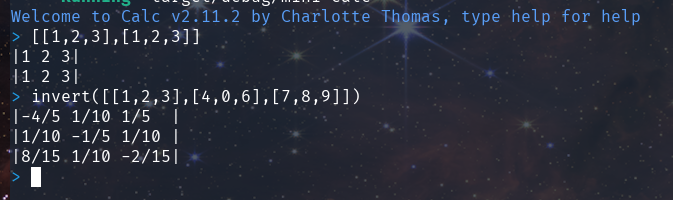
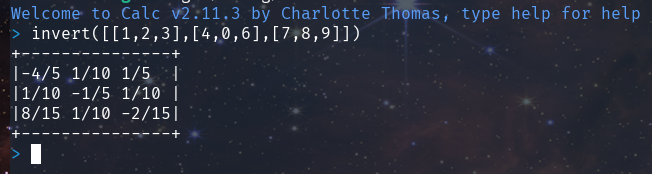
maj

diff --git a/public/index.html b/public/index.html
@@ -71,11 +71,11 @@
 
 
 
-<div class="artifacts" data-tag="2.11.2">
+<div class="artifacts" data-tag="2.11.3">
     <div class="artifact-header target">
-        <h4>Install 2.11.2</h4>
+        <h4>Install 2.11.3</h4>
         
-            <div><small class="published-date">Published on Nov 24 2023 at 21:16 UTC</small></div>
+            <div><small class="published-date">Published on Nov 26 2023 at 09:31 UTC</small></div>
         
 
         <ul class="arches">
@@ -113,9 +113,9 @@
                                     
                                     <div class="install-code-wrapper">
     <pre style="background-color:#263238;">
-<span style="color:#82aaff;">curl</span><span style="color:#89ddff;"> --</span><span style="color:#f78c6c;">proto </span><span style="color:#89ddff;">&#39;</span><span style="color:#c3e88d;">=https</span><span style="color:#89ddff;">&#39; --</span><span style="color:#f78c6c;">tlsv1</span><span style="color:#82aaff;">.2</span><span style="color:#89ddff;"> -</span><span style="color:#f78c6c;">LsSf</span><span style="color:#82aaff;"> https://github.com/coco33920/calc/releases/download/2.11.2/mini-calc-installer.sh </span><span style="color:#89ddff;">| </span><span style="color:#82aaff;">sh</span></pre>
+<span style="color:#82aaff;">curl</span><span style="color:#89ddff;"> --</span><span style="color:#f78c6c;">proto </span><span style="color:#89ddff;">&#39;</span><span style="color:#c3e88d;">=https</span><span style="color:#89ddff;">&#39; --</span><span style="color:#f78c6c;">tlsv1</span><span style="color:#82aaff;">.2</span><span style="color:#89ddff;"> -</span><span style="color:#f78c6c;">LsSf</span><span style="color:#82aaff;"> https://github.com/coco33920/calc/releases/download/2.11.3/mini-calc-installer.sh </span><span style="color:#89ddff;">| </span><span style="color:#82aaff;">sh</span></pre>
 
-    <button class="button copy-clipboard-button primary" data-copy="curl --proto '=https' --tlsv1.2 -LsSf https://github.com/coco33920/calc/releases/download/2.11.2/mini-calc-installer.sh | sh">
+    <button class="button copy-clipboard-button primary" data-copy="curl --proto '=https' --tlsv1.2 -LsSf https://github.com/coco33920/calc/releases/download/2.11.3/mini-calc-installer.sh | sh">
         <svg stroke='currentColor' fill='currentColor' stroke-width='0' viewBox='0 0 20 20' height='1em' width='1em' xmlns='http://www.w3.org/2000/svg'><path d='M8 2a1 1 0 000 2h2a1 1 0 100-2H8z'></path><path d='M3 5a2 2 0 012-2 3 3 0 003 3h2a3 3 0 003-3 2 2 0 012 2v6h-4.586l1.293-1.293a1 1 0 00-1.414-1.414l-3 3a1 1 0 000 1.414l3 3a1 1 0 001.414-1.414L10.414 13H15v3a2 2 0 01-2 2H5a2 2 0 01-2-2V5zM15 11h2a1 1 0 110 2h-2v-2z'></path></svg>
     </button>
     
@@ -158,7 +158,7 @@
                                 
                                     
                                      <div class="download-wrapper">
-                                         <a href="https://github.com/coco33920/calc/releases/download/2.11.2/mini-calc-aarch64-apple-darwin.tar.xz">
+                                         <a href="https://github.com/coco33920/calc/releases/download/2.11.3/mini-calc-aarch64-apple-darwin.tar.xz">
                                              <button class="button primary">
                                                  <span>Download</span>
                                                  <span class="button-subtitle">mini-calc-aarch64-apple-darwin.tar.xz</span>
@@ -204,9 +204,9 @@
                                     
                                     <div class="install-code-wrapper">
     <pre style="background-color:#263238;">
-<span style="color:#82aaff;">curl</span><span style="color:#89ddff;"> --</span><span style="color:#f78c6c;">proto </span><span style="color:#89ddff;">&#39;</span><span style="color:#c3e88d;">=https</span><span style="color:#89ddff;">&#39; --</span><span style="color:#f78c6c;">tlsv1</span><span style="color:#82aaff;">.2</span><span style="color:#89ddff;"> -</span><span style="color:#f78c6c;">LsSf</span><span style="color:#82aaff;"> https://github.com/coco33920/calc/releases/download/2.11.2/mini-calc-installer.sh </span><span style="color:#89ddff;">| </span><span style="color:#82aaff;">sh</span></pre>
+<span style="color:#82aaff;">curl</span><span style="color:#89ddff;"> --</span><span style="color:#f78c6c;">proto </span><span style="color:#89ddff;">&#39;</span><span style="color:#c3e88d;">=https</span><span style="color:#89ddff;">&#39; --</span><span style="color:#f78c6c;">tlsv1</span><span style="color:#82aaff;">.2</span><span style="color:#89ddff;"> -</span><span style="color:#f78c6c;">LsSf</span><span style="color:#82aaff;"> https://github.com/coco33920/calc/releases/download/2.11.3/mini-calc-installer.sh </span><span style="color:#89ddff;">| </span><span style="color:#82aaff;">sh</span></pre>
 
-    <button class="button copy-clipboard-button primary" data-copy="curl --proto '=https' --tlsv1.2 -LsSf https://github.com/coco33920/calc/releases/download/2.11.2/mini-calc-installer.sh | sh">
+    <button class="button copy-clipboard-button primary" data-copy="curl --proto '=https' --tlsv1.2 -LsSf https://github.com/coco33920/calc/releases/download/2.11.3/mini-calc-installer.sh | sh">
         <svg stroke='currentColor' fill='currentColor' stroke-width='0' viewBox='0 0 20 20' height='1em' width='1em' xmlns='http://www.w3.org/2000/svg'><path d='M8 2a1 1 0 000 2h2a1 1 0 100-2H8z'></path><path d='M3 5a2 2 0 012-2 3 3 0 003 3h2a3 3 0 003-3 2 2 0 012 2v6h-4.586l1.293-1.293a1 1 0 00-1.414-1.414l-3 3a1 1 0 000 1.414l3 3a1 1 0 001.414-1.414L10.414 13H15v3a2 2 0 01-2 2H5a2 2 0 01-2-2V5zM15 11h2a1 1 0 110 2h-2v-2z'></path></svg>
     </button>
     
@@ -249,7 +249,7 @@
                                 
                                     
                                      <div class="download-wrapper">
-                                         <a href="https://github.com/coco33920/calc/releases/download/2.11.2/mini-calc-x86_64-apple-darwin.tar.xz">
+                                         <a href="https://github.com/coco33920/calc/releases/download/2.11.3/mini-calc-x86_64-apple-darwin.tar.xz">
                                              <button class="button primary">
                                                  <span>Download</span>
                                                  <span class="button-subtitle">mini-calc-x86_64-apple-darwin.tar.xz</span>
@@ -309,7 +309,7 @@
                                 
                                     
                                      <div class="download-wrapper">
-                                         <a href="https://github.com/coco33920/calc/releases/download/2.11.2/mini-calc-x86_64-pc-windows-msvc.zip">
+                                         <a href="https://github.com/coco33920/calc/releases/download/2.11.3/mini-calc-x86_64-pc-windows-msvc.zip">
                                              <button class="button primary">
                                                  <span>Download</span>
                                                  <span class="button-subtitle">mini-calc-x86_64-pc-windows-msvc.zip</span>
@@ -355,9 +355,9 @@
                                     
                                     <div class="install-code-wrapper">
     <pre style="background-color:#263238;">
-<span style="color:#82aaff;">curl</span><span style="color:#89ddff;"> --</span><span style="color:#f78c6c;">proto </span><span style="color:#89ddff;">&#39;</span><span style="color:#c3e88d;">=https</span><span style="color:#89ddff;">&#39; --</span><span style="color:#f78c6c;">tlsv1</span><span style="color:#82aaff;">.2</span><span style="color:#89ddff;"> -</span><span style="color:#f78c6c;">LsSf</span><span style="color:#82aaff;"> https://github.com/coco33920/calc/releases/download/2.11.2/mini-calc-installer.sh </span><span style="color:#89ddff;">| </span><span style="color:#82aaff;">sh</span></pre>
+<span style="color:#82aaff;">curl</span><span style="color:#89ddff;"> --</span><span style="color:#f78c6c;">proto </span><span style="color:#89ddff;">&#39;</span><span style="color:#c3e88d;">=https</span><span style="color:#89ddff;">&#39; --</span><span style="color:#f78c6c;">tlsv1</span><span style="color:#82aaff;">.2</span><span style="color:#89ddff;"> -</span><span style="color:#f78c6c;">LsSf</span><span style="color:#82aaff;"> https://github.com/coco33920/calc/releases/download/2.11.3/mini-calc-installer.sh </span><span style="color:#89ddff;">| </span><span style="color:#82aaff;">sh</span></pre>
 
-    <button class="button copy-clipboard-button primary" data-copy="curl --proto '=https' --tlsv1.2 -LsSf https://github.com/coco33920/calc/releases/download/2.11.2/mini-calc-installer.sh | sh">
+    <button class="button copy-clipboard-button primary" data-copy="curl --proto '=https' --tlsv1.2 -LsSf https://github.com/coco33920/calc/releases/download/2.11.3/mini-calc-installer.sh | sh">
         <svg stroke='currentColor' fill='currentColor' stroke-width='0' viewBox='0 0 20 20' height='1em' width='1em' xmlns='http://www.w3.org/2000/svg'><path d='M8 2a1 1 0 000 2h2a1 1 0 100-2H8z'></path><path d='M3 5a2 2 0 012-2 3 3 0 003 3h2a3 3 0 003-3 2 2 0 012 2v6h-4.586l1.293-1.293a1 1 0 00-1.414-1.414l-3 3a1 1 0 000 1.414l3 3a1 1 0 001.414-1.414L10.414 13H15v3a2 2 0 01-2 2H5a2 2 0 01-2-2V5zM15 11h2a1 1 0 110 2h-2v-2z'></path></svg>
     </button>
     
@@ -400,7 +400,7 @@
                                 
                                     
                                      <div class="download-wrapper">
-                                         <a href="https://github.com/coco33920/calc/releases/download/2.11.2/mini-calc-x86_64-unknown-linux-gnu.tar.xz">
+                                         <a href="https://github.com/coco33920/calc/releases/download/2.11.3/mini-calc-x86_64-unknown-linux-gnu.tar.xz">
                                              <button class="button primary">
                                                  <span>Download</span>
                                                  <span class="button-subtitle">mini-calc-x86_64-unknown-linux-gnu.tar.xz</span>

diff --git a/public/artifacts/index.html b/public/artifacts/index.html
@@ -92,9 +92,9 @@
                     <h3>shell</h3>
                     <div class="install-code-wrapper">
     <pre style="background-color:#263238;">
-<span style="color:#82aaff;">curl</span><span style="color:#89ddff;"> --</span><span style="color:#f78c6c;">proto </span><span style="color:#89ddff;">&#39;</span><span style="color:#c3e88d;">=https</span><span style="color:#89ddff;">&#39; --</span><span style="color:#f78c6c;">tlsv1</span><span style="color:#82aaff;">.2</span><span style="color:#89ddff;"> -</span><span style="color:#f78c6c;">LsSf</span><span style="color:#82aaff;"> https://github.com/coco33920/calc/releases/download/2.11.2/mini-calc-installer.sh </span><span style="color:#89ddff;">| </span><span style="color:#82aaff;">sh</span></pre>
+<span style="color:#82aaff;">curl</span><span style="color:#89ddff;"> --</span><span style="color:#f78c6c;">proto </span><span style="color:#89ddff;">&#39;</span><span style="color:#c3e88d;">=https</span><span style="color:#89ddff;">&#39; --</span><span style="color:#f78c6c;">tlsv1</span><span style="color:#82aaff;">.2</span><span style="color:#89ddff;"> -</span><span style="color:#f78c6c;">LsSf</span><span style="color:#82aaff;"> https://github.com/coco33920/calc/releases/download/2.11.3/mini-calc-installer.sh </span><span style="color:#89ddff;">| </span><span style="color:#82aaff;">sh</span></pre>
 
-    <button class="button copy-clipboard-button primary" data-copy="curl --proto '=https' --tlsv1.2 -LsSf https://github.com/coco33920/calc/releases/download/2.11.2/mini-calc-installer.sh | sh">
+    <button class="button copy-clipboard-button primary" data-copy="curl --proto '=https' --tlsv1.2 -LsSf https://github.com/coco33920/calc/releases/download/2.11.3/mini-calc-installer.sh | sh">
         <svg stroke='currentColor' fill='currentColor' stroke-width='0' viewBox='0 0 20 20' height='1em' width='1em' xmlns='http://www.w3.org/2000/svg'><path d='M8 2a1 1 0 000 2h2a1 1 0 100-2H8z'></path><path d='M3 5a2 2 0 012-2 3 3 0 003 3h2a3 3 0 003-3 2 2 0 012 2v6h-4.586l1.293-1.293a1 1 0 00-1.414-1.414l-3 3a1 1 0 000 1.414l3 3a1 1 0 001.414-1.414L10.414 13H15v3a2 2 0 01-2 2H5a2 2 0 01-2-2V5zM15 11h2a1 1 0 110 2h-2v-2z'></path></svg>
     </button>
     
@@ -133,7 +133,7 @@
                     
                     
                     <tr>
-                        <td><a href="https://github.com/coco33920/calc/releases/download/2.11.2/mini-calc-aarch64-apple-darwin.tar.xz">mini-calc-aarch64-apple-darwin.tar.xz</a></td>
+                        <td><a href="https://github.com/coco33920/calc/releases/download/2.11.3/mini-calc-aarch64-apple-darwin.tar.xz">mini-calc-aarch64-apple-darwin.tar.xz</a></td>
                         <td>
                             
                                 
@@ -144,7 +144,7 @@
                         
                             
                                 
-                                <td><a href="https://github.com/coco33920/calc/releases/download/2.11.2/mini-calc-aarch64-apple-darwin.tar.xz.sha256">checksum</a></td>
+                                <td><a href="https://github.com/coco33920/calc/releases/download/2.11.3/mini-calc-aarch64-apple-darwin.tar.xz.sha256">checksum</a></td>
                             
                         
                     </tr>
@@ -152,7 +152,7 @@
                     
                     
                     <tr>
-                        <td><a href="https://github.com/coco33920/calc/releases/download/2.11.2/mini-calc-x86_64-apple-darwin.tar.xz">mini-calc-x86_64-apple-darwin.tar.xz</a></td>
+                        <td><a href="https://github.com/coco33920/calc/releases/download/2.11.3/mini-calc-x86_64-apple-darwin.tar.xz">mini-calc-x86_64-apple-darwin.tar.xz</a></td>
                         <td>
                             
                                 
@@ -163,7 +163,7 @@
                         
                             
                                 
-                                <td><a href="https://github.com/coco33920/calc/releases/download/2.11.2/mini-calc-x86_64-apple-darwin.tar.xz.sha256">checksum</a></td>
+                                <td><a href="https://github.com/coco33920/calc/releases/download/2.11.3/mini-calc-x86_64-apple-darwin.tar.xz.sha256">checksum</a></td>
                             
                         
                     </tr>
@@ -171,7 +171,7 @@
                     
                     
                     <tr>
-                        <td><a href="https://github.com/coco33920/calc/releases/download/2.11.2/mini-calc-x86_64-pc-windows-msvc.zip">mini-calc-x86_64-pc-windows-msvc.zip</a></td>
+                        <td><a href="https://github.com/coco33920/calc/releases/download/2.11.3/mini-calc-x86_64-pc-windows-msvc.zip">mini-calc-x86_64-pc-windows-msvc.zip</a></td>
                         <td>
                             
                                 
@@ -182,7 +182,7 @@
                         
                             
                                 
-                                <td><a href="https://github.com/coco33920/calc/releases/download/2.11.2/mini-calc-x86_64-pc-windows-msvc.zip.sha256">checksum</a></td>
+                                <td><a href="https://github.com/coco33920/calc/releases/download/2.11.3/mini-calc-x86_64-pc-windows-msvc.zip.sha256">checksum</a></td>
                             
                         
                     </tr>
@@ -190,7 +190,7 @@
                     
                     
                     <tr>
-                        <td><a href="https://github.com/coco33920/calc/releases/download/2.11.2/mini-calc-x86_64-unknown-linux-gnu.tar.xz">mini-calc-x86_64-unknown-linux-gnu.tar.xz</a></td>
+                        <td><a href="https://github.com/coco33920/calc/releases/download/2.11.3/mini-calc-x86_64-unknown-linux-gnu.tar.xz">mini-calc-x86_64-unknown-linux-gnu.tar.xz</a></td>
                         <td>
                             
                                 
@@ -201,7 +201,7 @@
                         
                             
                                 
-                                <td><a href="https://github.com/coco33920/calc/releases/download/2.11.2/mini-calc-x86_64-unknown-linux-gnu.tar.xz.sha256">checksum</a></td>
+                                <td><a href="https://github.com/coco33920/calc/releases/download/2.11.3/mini-calc-x86_64-unknown-linux-gnu.tar.xz.sha256">checksum</a></td>
                             
                         
                     </tr>

diff --git a/public/changelog/index.html b/public/changelog/index.html
@@ -79,18 +79,13 @@
     <div class="releases-wrapper">
         <nav class="releases-nav">
             
-                <div class="prereleases-toggle">
-                    <div class="flex h-6 items-center">
-                        <input type="checkbox" id="show-prereleases" />
-                    </div>
-                    <div class="ml-3">
-                        <label for="show-prereleases">Show prereleases</label>
-                    </div>
-                </div>
-            
 
             
             <ul>
+                
+                     <li class="">
+                         <a href="2.11.3/">2.11.3</a>
+                     </li>
                 
                      <li class="">
                          <a href="2.11.2/">2.11.2</a>
@@ -208,14 +203,42 @@
                          <a href="alpha-0.2.0/">alpha-0.2.0</a>
                      </li>
                 
-                     <li class="pre-release hidden">
-                         <a href="alpha-0.1.0/">alpha-0.1.0</a>
-                     </li>
-                
             </ul>
         </nav>
 
         <div class="releases-list">
+            
+                
+                <section class="release ">
+    <h2 id="tag-2.11.3">
+        <a href="2.11.3/">
+            
+                Version 2.11.3
+            
+        </a>
+    </h2>
+    <div class="release-info">
+        <span class="flex items-center gap-2">
+            <svg xmlns='http://www.w3.org/2000/svg' fill='none' viewBox='0 0 24 24' stroke-width='1.5' stroke='currentColor' class='w-6 h-6'>
+    <path stroke-linecap='round' stroke-linejoin='round' d='M9.568 3H5.25A2.25 2.25 0 003 5.25v4.318c0 .597.237 1.17.659 1.591l9.581 9.581c.699.699 1.78.872 2.607.33a18.095 18.095 0 005.223-5.223c.542-.827.369-1.908-.33-2.607L11.16 3.66A2.25 2.25 0 009.568 3z' />
+    <path stroke-linecap='round' stroke-linejoin='round' d='M6 6h.008v.008H6V6z' /></svg>
+            2.11.3
+        </span>
+        <span class="flex items-center gap-2">
+            
+                <svg xmlns='http://www.w3.org/2000/svg' fill='none' viewBox='0 0 24 24' stroke-width='1.5' stroke='currentColor' class='w-6 h-6'><path stroke-linecap='round' stroke-linejoin='round' d='M6.75 3v2.25M17.25 3v2.25M3 18.75V7.5a2.25 2.25 0 012.25-2.25h13.5A2.25 2.25 0 0121 7.5v11.25m-18 0A2.25 2.25 0 005.25 21h13.5A2.25 2.25 0 0021 18.75m-18 0v-7.5A2.25 2.25 0 015.25 9h13.5A2.25 2.25 0 0121 11.25v7.5' /></svg>
+                Nov 26 2023 at 09:31 UTC
+            
+        </span>
+    </div>
+    <div class="release-body">
+        <h2>Matrices</h2>
+<p>-- change the matrix pretty print</p>
+<h2>Bug fix</h2>
+<p>-- fix bug when re-allocating the variable (i.e you can't)</p>
+
+    </div>
+</section>
             
                 
                 <section class="release ">
@@ -1250,34 +1273,6 @@ No edge case</p>
             
                 <svg xmlns='http://www.w3.org/2000/svg' fill='none' viewBox='0 0 24 24' stroke-width='1.5' stroke='currentColor' class='w-6 h-6'><path stroke-linecap='round' stroke-linejoin='round' d='M6.75 3v2.25M17.25 3v2.25M3 18.75V7.5a2.25 2.25 0 012.25-2.25h13.5A2.25 2.25 0 0121 7.5v11.25m-18 0A2.25 2.25 0 005.25 21h13.5A2.25 2.25 0 0021 18.75m-18 0v-7.5A2.25 2.25 0 015.25 9h13.5A2.25 2.25 0 0121 11.25v7.5' /></svg>
                 Nov 11 2023 at 14:25 UTC
-            
-        </span>
-    </div>
-    <div class="release-body">
-        
-    </div>
-</section>
-            
-                
-                <section class="release pre-release hidden">
-    <h2 id="tag-alpha-0.1.0">
-        <a href="alpha-0.1.0/">
-            
-                v.0.1.0-alpha Lexing and REPL
-            
-        </a>
-    </h2>
-    <div class="release-info">
-        <span class="flex items-center gap-2">
-            <svg xmlns='http://www.w3.org/2000/svg' fill='none' viewBox='0 0 24 24' stroke-width='1.5' stroke='currentColor' class='w-6 h-6'>
-    <path stroke-linecap='round' stroke-linejoin='round' d='M9.568 3H5.25A2.25 2.25 0 003 5.25v4.318c0 .597.237 1.17.659 1.591l9.581 9.581c.699.699 1.78.872 2.607.33a18.095 18.095 0 005.223-5.223c.542-.827.369-1.908-.33-2.607L11.16 3.66A2.25 2.25 0 009.568 3z' />
-    <path stroke-linecap='round' stroke-linejoin='round' d='M6 6h.008v.008H6V6z' /></svg>
-            alpha-0.1.0
-        </span>
-        <span class="flex items-center gap-2">
-            
-                <svg xmlns='http://www.w3.org/2000/svg' fill='none' viewBox='0 0 24 24' stroke-width='1.5' stroke='currentColor' class='w-6 h-6'><path stroke-linecap='round' stroke-linejoin='round' d='M6.75 3v2.25M17.25 3v2.25M3 18.75V7.5a2.25 2.25 0 012.25-2.25h13.5A2.25 2.25 0 0121 7.5v11.25m-18 0A2.25 2.25 0 005.25 21h13.5A2.25 2.25 0 0021 18.75m-18 0v-7.5A2.25 2.25 0 015.25 9h13.5A2.25 2.25 0 0121 11.25v7.5' /></svg>
-                Nov 11 2023 at 08:58 UTC
             
         </span>
     </div>

diff --git a/public/changelog/2.11.3/index.html b/public/changelog/2.11.3/index.html
@@ -67,28 +67,32 @@
 
                     
 <div>
-    <h1>v.0.1.0-alpha Lexing and REPL</h1>
+    <h1>Version 2.11.3</h1>
     <div class="releases-body">
         
         
-        <section class="release pre-release ">
+        <section class="release ">
     
     <div class="release-info">
         <span class="flex items-center gap-2">
             <svg xmlns='http://www.w3.org/2000/svg' fill='none' viewBox='0 0 24 24' stroke-width='1.5' stroke='currentColor' class='w-6 h-6'>
     <path stroke-linecap='round' stroke-linejoin='round' d='M9.568 3H5.25A2.25 2.25 0 003 5.25v4.318c0 .597.237 1.17.659 1.591l9.581 9.581c.699.699 1.78.872 2.607.33a18.095 18.095 0 005.223-5.223c.542-.827.369-1.908-.33-2.607L11.16 3.66A2.25 2.25 0 009.568 3z' />
     <path stroke-linecap='round' stroke-linejoin='round' d='M6 6h.008v.008H6V6z' /></svg>
-            alpha-0.1.0
+            2.11.3
         </span>
         <span class="flex items-center gap-2">
             
                 <svg xmlns='http://www.w3.org/2000/svg' fill='none' viewBox='0 0 24 24' stroke-width='1.5' stroke='currentColor' class='w-6 h-6'><path stroke-linecap='round' stroke-linejoin='round' d='M6.75 3v2.25M17.25 3v2.25M3 18.75V7.5a2.25 2.25 0 012.25-2.25h13.5A2.25 2.25 0 0121 7.5v11.25m-18 0A2.25 2.25 0 005.25 21h13.5A2.25 2.25 0 0021 18.75m-18 0v-7.5A2.25 2.25 0 015.25 9h13.5A2.25 2.25 0 0121 11.25v7.5' /></svg>
-                Nov 11 2023 at 08:58 UTC
+                Nov 26 2023 at 09:31 UTC
             
         </span>
     </div>
     <div class="release-body">
-        
+        <h2>Matrices</h2>
+<p>-- change the matrix pretty print</p>
+<h2>Bug fix</h2>
+<p>-- fix bug when re-allocating the variable (i.e you can't)</p>
+
     </div>
 </section>
     </div>
